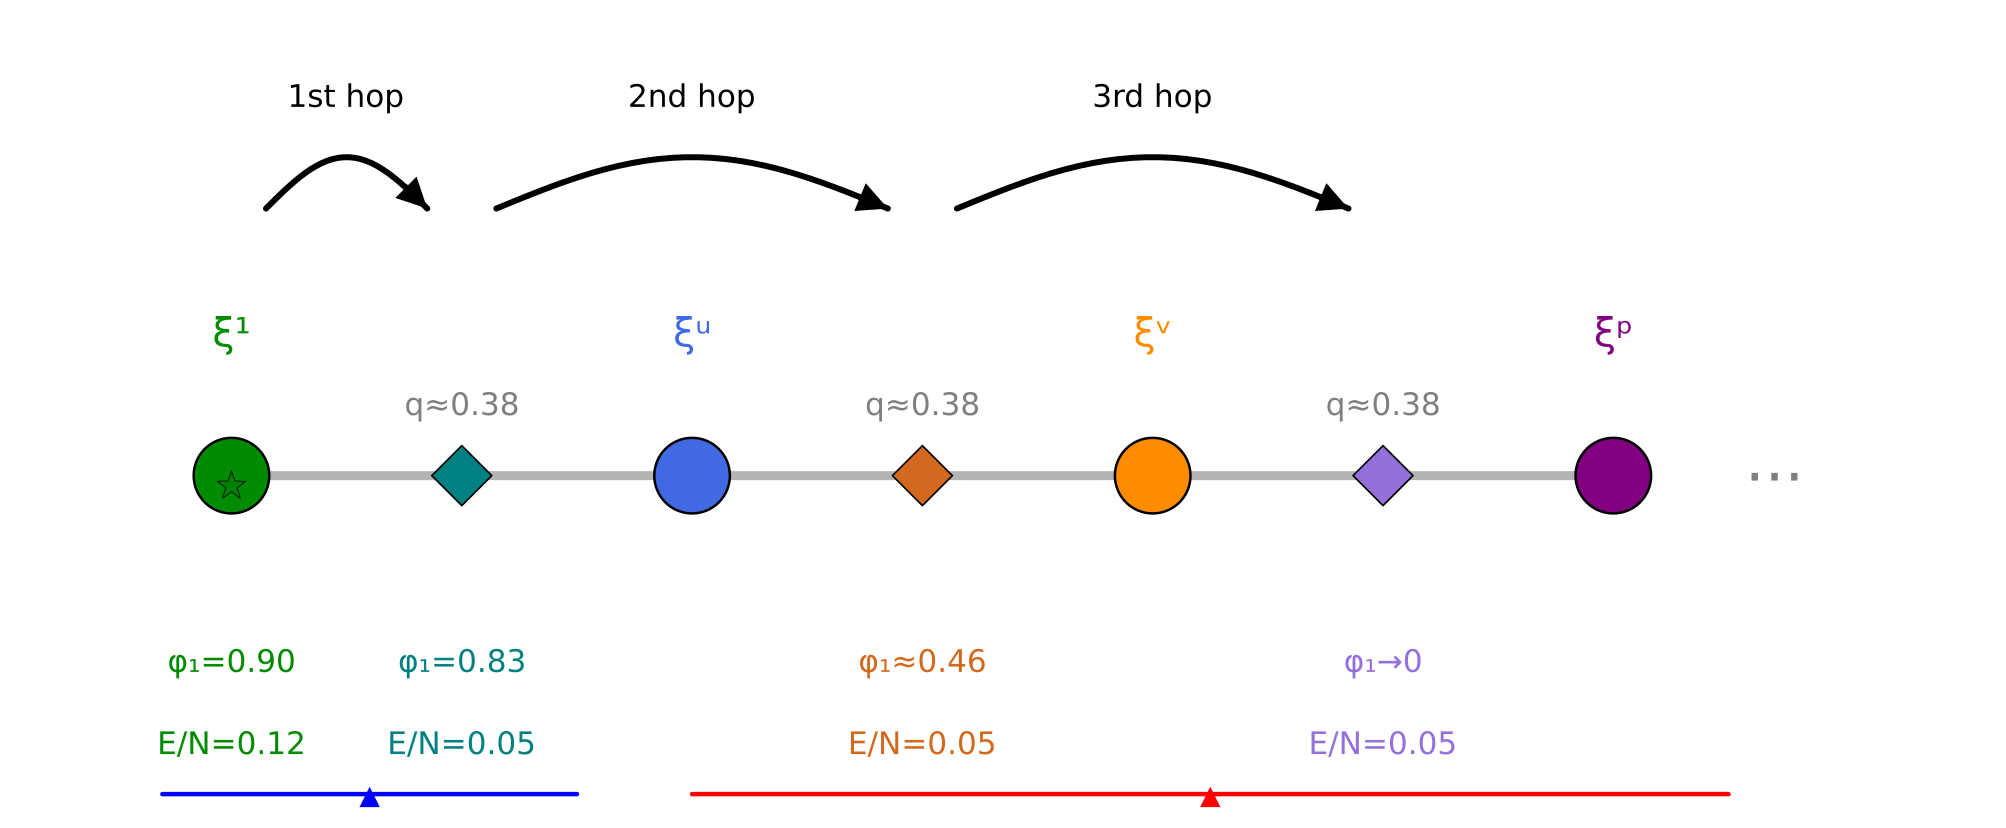
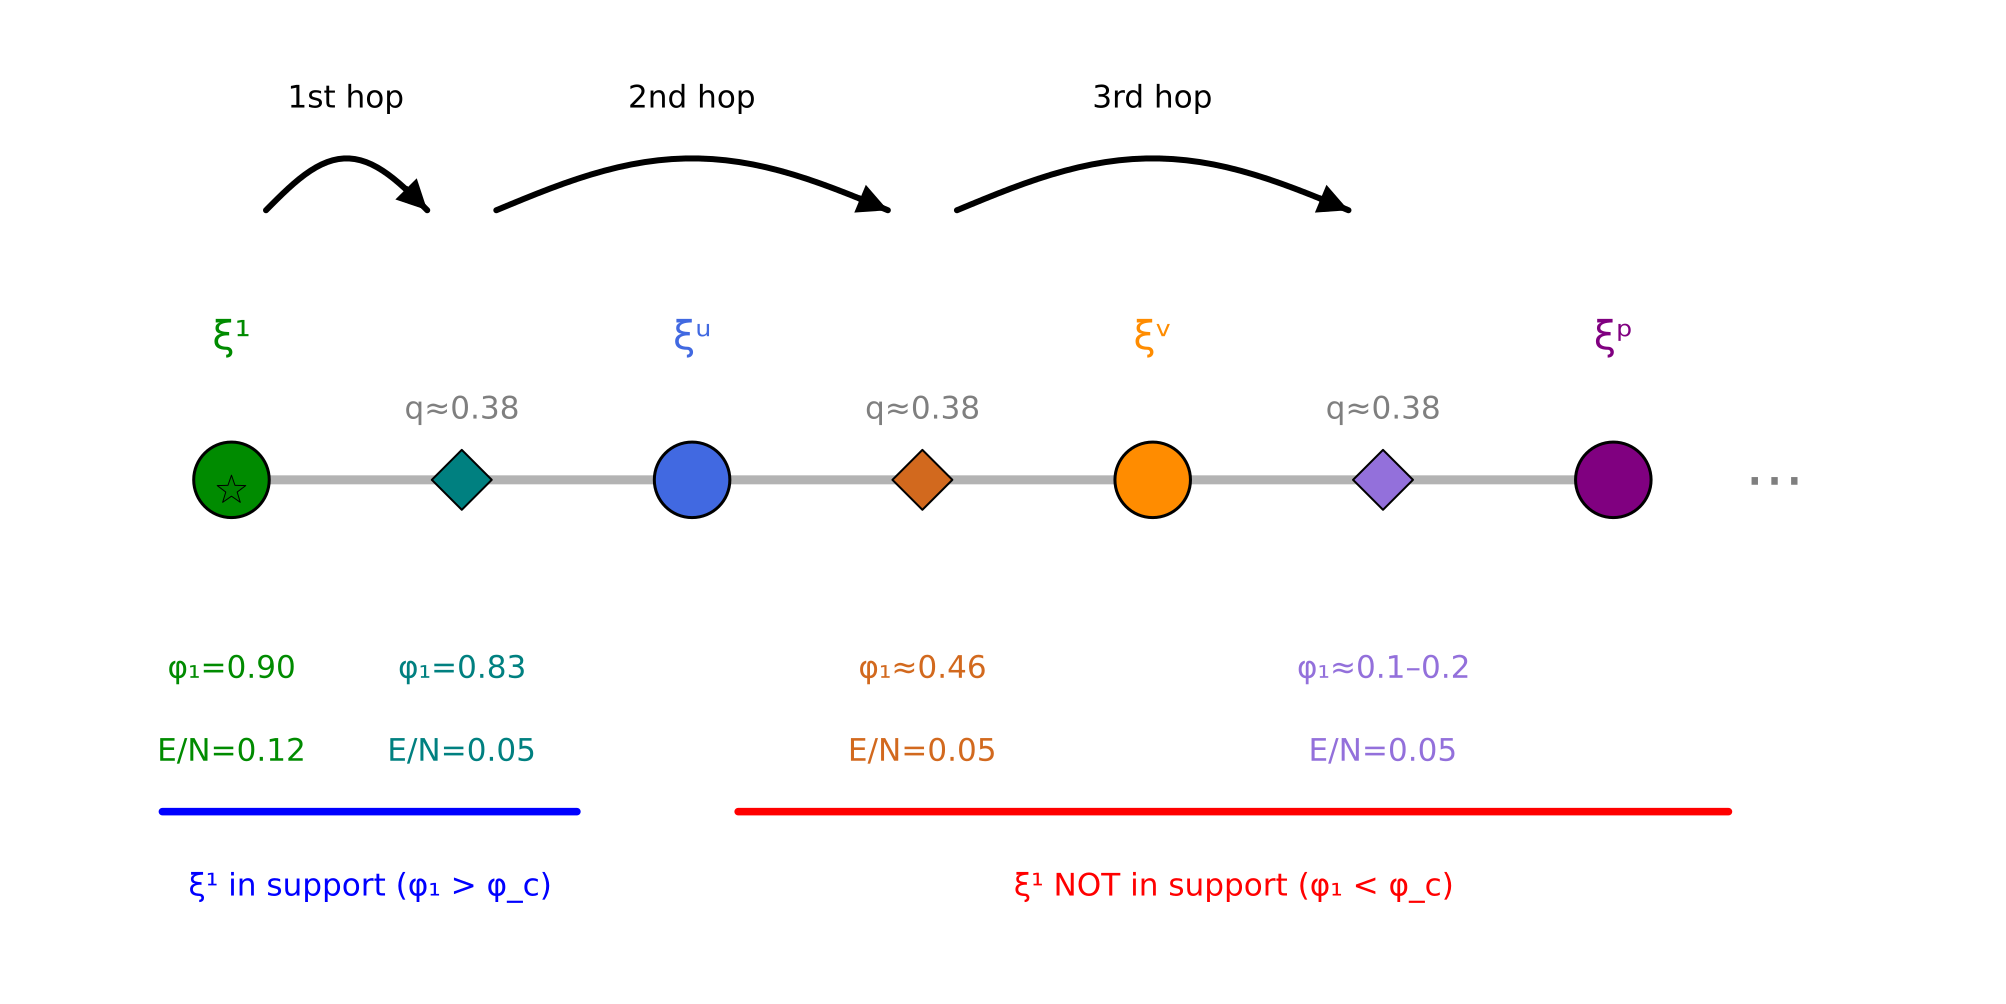
Fix hopping figure: expand ylims, show bracket labels, fix 3rd hop value
- Increase figure height so bottom labels are not clipped
- Third hop: phi_1 ~ 0.1-0.2 (not -> 0)
- Blue/red brackets now visible with text: target in/not in support

diff --git a/NIPS_Resilience/latex/resilience_dop.tex b/NIPS_Resilience/latex/resilience_dop.tex
@@ -315,7 +315,7 @@ Instead of growing, the system \emph{hops}: from the centroid $(\bxi^1, \bxi^\mu
 \;\xrightarrow{\text{2nd hop}}\;
 \underbrace{(\bxi^\mu,\,\bxi^\nu)}_{\varphi_1 \approx 0.46}
 \;\xrightarrow{\text{3rd hop}}\;
-\underbrace{(\bxi^\nu,\,\bxi^\rho)}_{\varphi_1 \to 0}
+\underbrace{(\bxi^\nu,\,\bxi^\rho)}_{\varphi_1 \approx 0.1\text{--}0.2}
 \;\to\; \cdots
 \]
 
